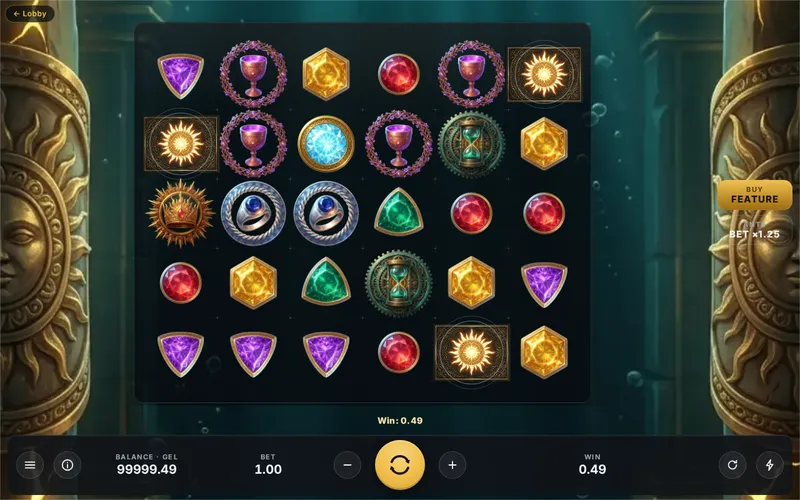
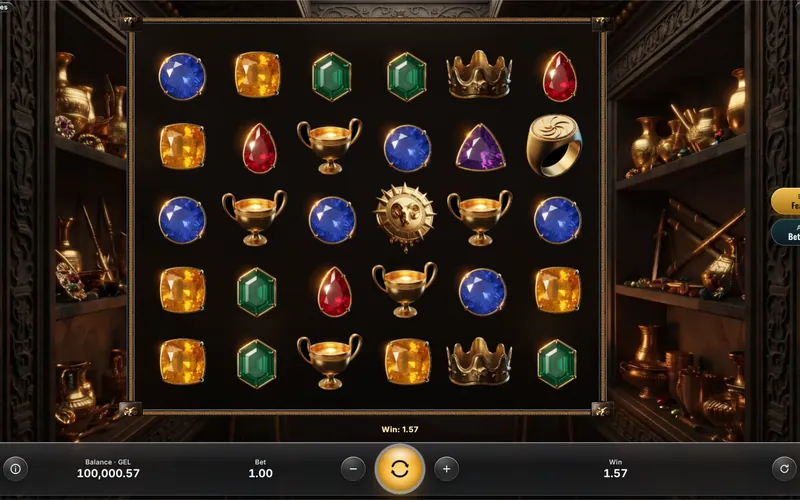
demo(lobby): Vault 20K's card shows the Colchis Treasury game (#162)
The lobby still showed Vault's old art and said its lasers cut the multiplier
plates. The card now has a fresh screenshot of the current game and says what
it does today (a sunbeam burns the plates in), at the same length so the cards
stay aligned. The page description names all five games.

Claude-Session: https://claude.ai/code/session_0184DL3n4kNDtnq3FQ7VjR1b

diff --git a/demo/lobby.html b/demo/lobby.html
@@ -6,7 +6,7 @@
   <link rel="icon" href="data:," />
   <meta name="theme-color" content="#050c0e" />
   <title>Lumina Games · Demo lobby</title>
-  <meta name="description" content="Play Lumina Games' slots in demo mode: Vault 20K, Moth &amp; Lantern, Relic Forge and Glasshouse, with play money you can reset." />
+  <meta name="description" content="Play Lumina Games' slots in demo mode: Vault 20K, Moth &amp; Lantern, Relic Forge, Glasshouse and Clockwork Menagerie, with play money you can reset." />
   <link rel="preload" as="font" type="font/woff2" href="/vault/assets/fonts/oswald-sub-wght-400-700.woff2" crossorigin />
   <style>
     @font-face { font-family: "Lobby UI"; src: url("/vault/assets/fonts/inter-sub-wght-400-900.woff2") format("woff2"); font-weight: 400 900; font-display: swap; }
@@ -104,7 +104,7 @@
         <div class="shot"><img src="/demo/img/vault-20k.webp" alt="Vault 20K game screen" width="800" height="500" /><span class="tag">Inside the vault</span></div>
         <div class="body">
           <h2>Vault 20K</h2>
-          <p>A sunken vault of crowns and cut gems. Its lasers cut multiplier plates free, and in free spins they keep adding up.</p>
+          <p>Crowns, rings and cut gems under the Golden Fleece. A sunbeam burns multiplier plates in, and in free spins they add up.</p>
           <dl>
             <div><dt>RTP</dt><dd>96.38%</dd></div>
             <div><dt>Volatility</dt><dd>High</dd></div>
